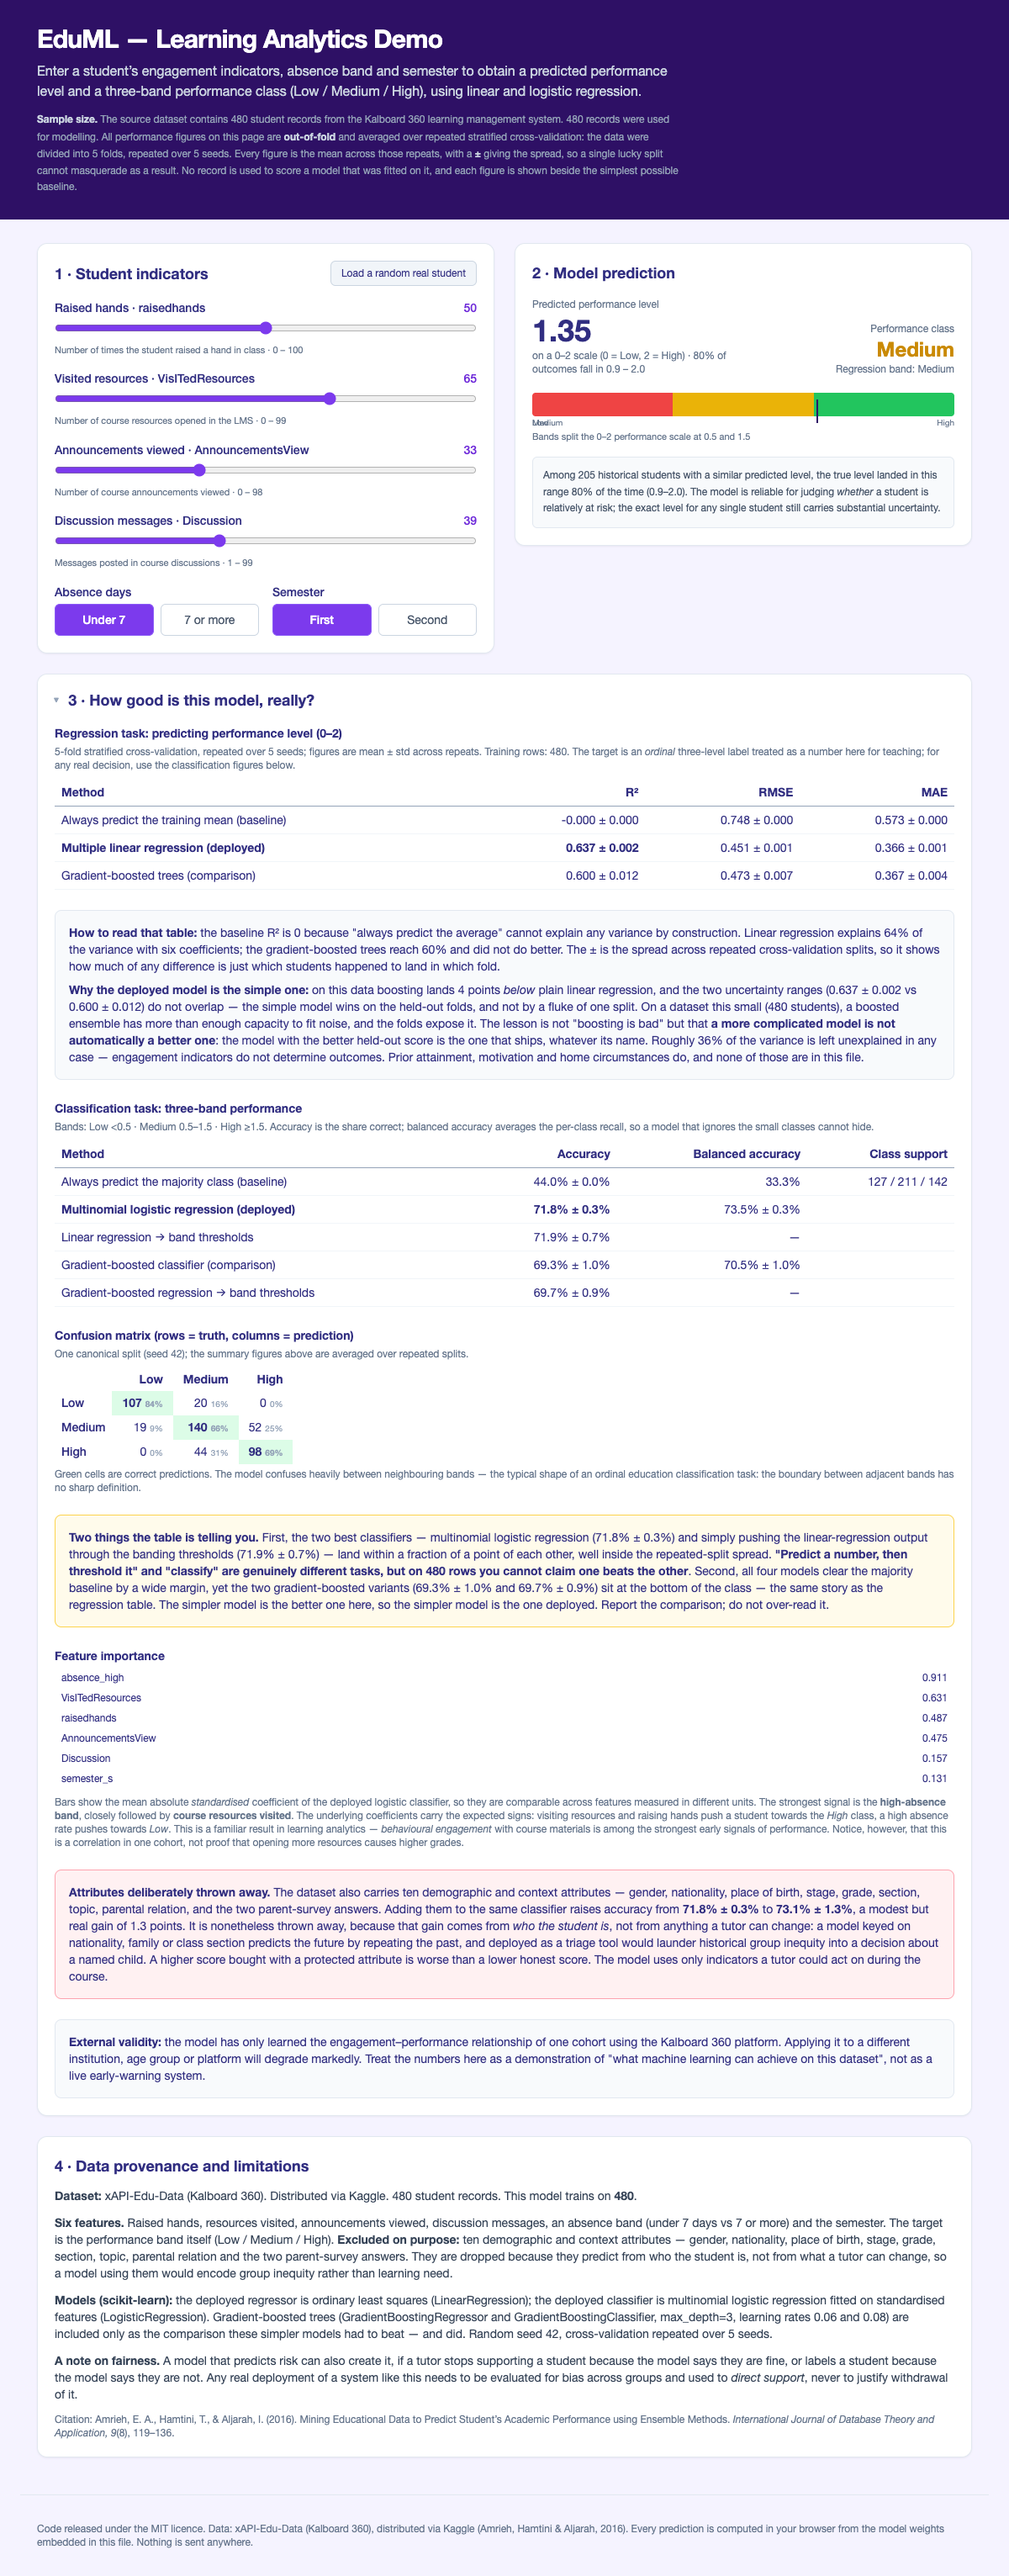
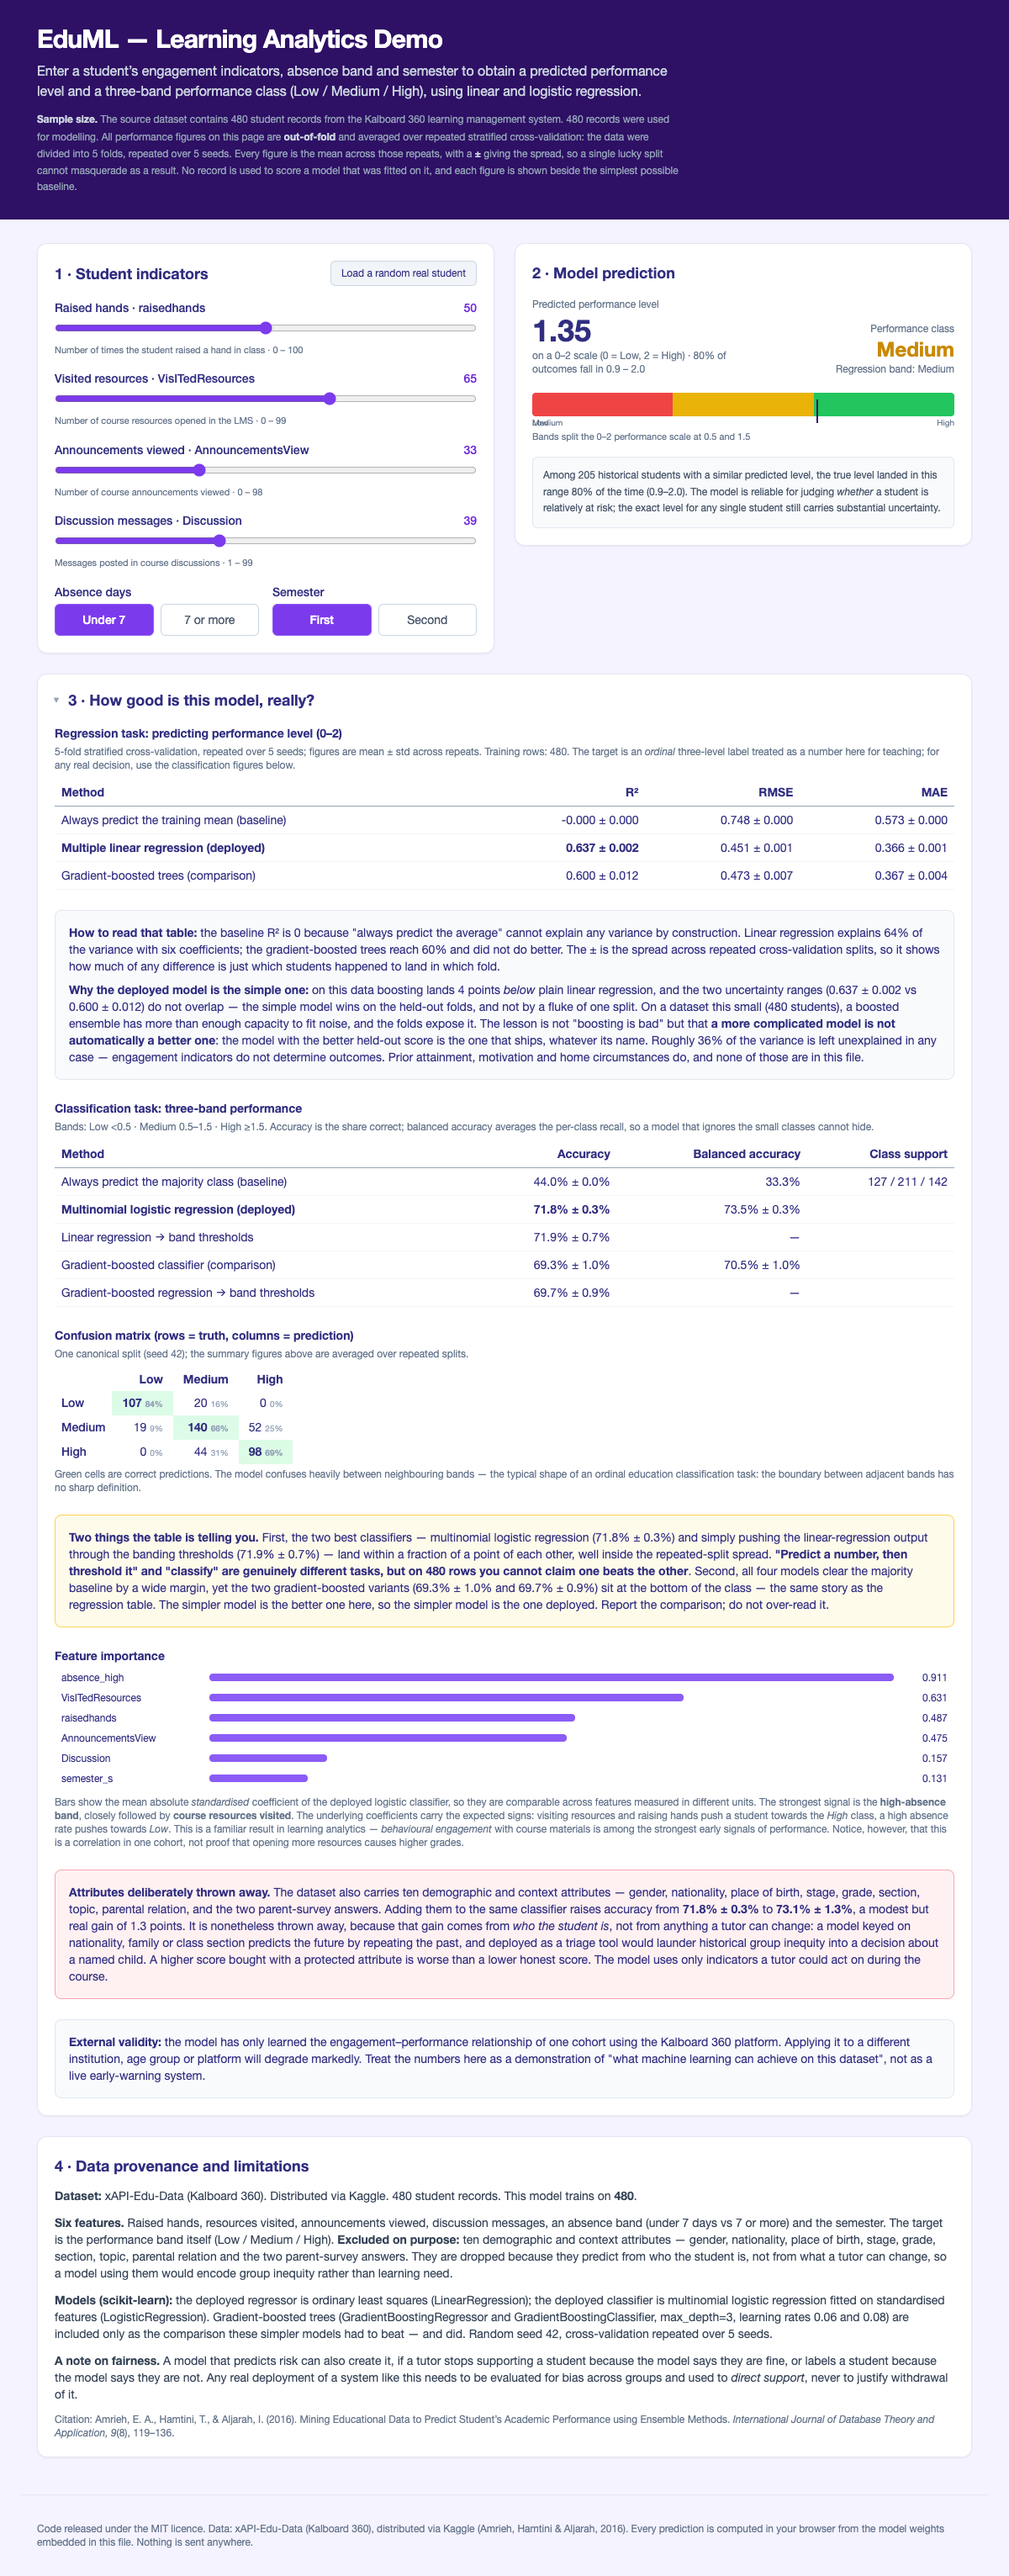
Fix feature-importance bars: use remapped bg-blue-500 instead of undefined bg-violet-500
The vendored Tailwind snapshot has no bg-violet-500 utility and the violet override only remaps bg-blue-500/bg-blue-600, so the bars rendered transparent. Rebuilt index.html and refreshed the screenshot.

Changed region(s): [[0.2158, 0.6513, 0.6783, 0.7134]]

diff --git a/index.html b/index.html
@@ -487,7 +487,7 @@ function renderMetrics() {
   h += '<div><h3 class="font-semibold mb-1">Feature importance</h3><table class="w-full">';
   M.feature_importance.forEach(pair => {
     h += '<tr><td class="py-1 px-2 w-44 text-xs">' + pair[0] + '</td>'
-       + '<td class="px-2 py-1"><div class="bg-violet-500 rounded" style="height:9px;width:'
+       + '<td class="px-2 py-1"><div class="bg-blue-500 rounded" style="height:9px;width:'
        + (pair[1] / top * 100).toFixed(1) + '%"></div></td>'
        + '<td class="px-2 py-1 num text-xs text-right w-16">' + pair[1].toFixed(3) + '</td></tr>';
   });

diff --git a/scripts/build_page.py b/scripts/build_page.py
@@ -436,7 +436,7 @@ function renderMetrics() {
   h += '<div><h3 class="font-semibold mb-1">Feature importance</h3><table class="w-full">';
   M.feature_importance.forEach(pair => {
     h += '<tr><td class="py-1 px-2 w-44 text-xs">' + pair[0] + '</td>'
-       + '<td class="px-2 py-1"><div class="bg-violet-500 rounded" style="height:9px;width:'
+       + '<td class="px-2 py-1"><div class="bg-blue-500 rounded" style="height:9px;width:'
        + (pair[1] / top * 100).toFixed(1) + '%"></div></td>'
        + '<td class="px-2 py-1 num text-xs text-right w-16">' + pair[1].toFixed(3) + '</td></tr>';
   });
